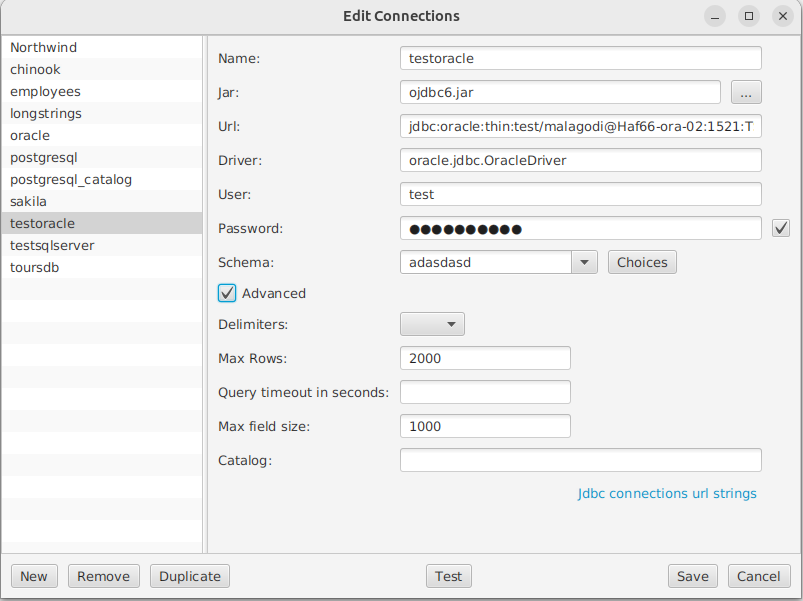
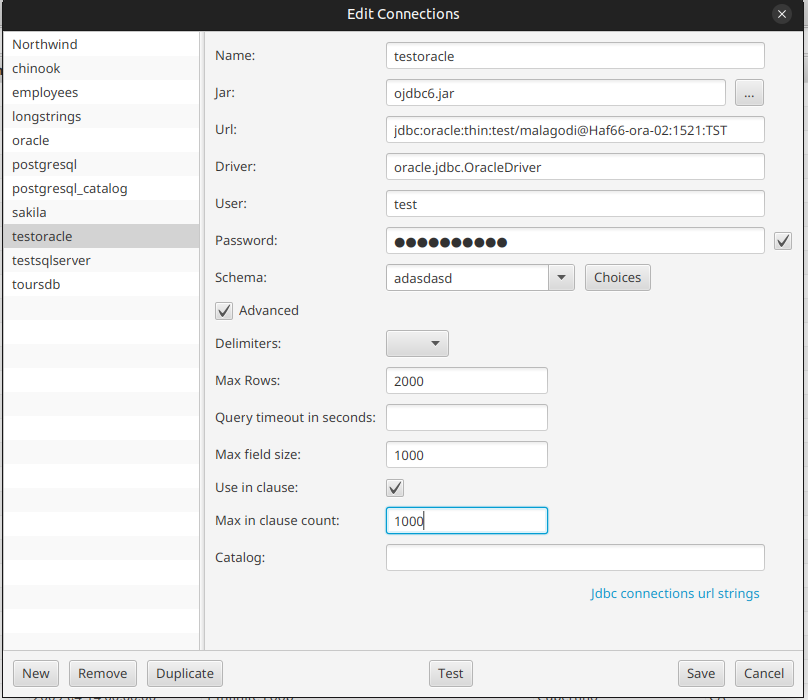
#127: updated the documentation

diff --git a/docs/Connections-editor.md b/docs/Connections-editor.md
@@ -30,6 +30,8 @@ And optionally (generally not needed):
 * **Query timeout in seconds**: for each query (a new tab) sets a maximum limit to the query duration in seconds. This timeout acts both in the query execution itself and in loading the query result. If not specified, this timeout is 10 seconds.
 * **Max rows**. The number of rows resulting from queries are limited to 500 by default: you don't want to use local memory, network and database resources to read many table rows, not to mention the queries performance. If you want to see other rows, it is generally enough to change the query parameters or the order of the resulting rows. But there are some cases in which you want to have a larger rows number limit. 
 * **Max field size**. Used to improve the performance of queries on tables with large content columns, for example large strings (kilobytes or more). Setting the max field size on a database limits the amount of data (in bytes) read for each column in the normal query, showing only the start of it when it is too long. To see the whole column content display a specific row in the [Vertical row view](Vertical-row-view), which does not limit the size of the columns' content.
+* **Use in clause**. Used to choose if IN or OR clauses are used for the foreign keys query in this database. DBtarzan uses [foreign keys](ForeignKeys) to traverse a database. Follow a foreign key means querying the destination table with the keys coming from the original table. For this purpose one can choose an IN clause (key IN (v1, v2, v3...)) or a sequence of ORs (key = v1 OR key = v2 OR key = v3...). Normally the IN clause is more effective, but it can be that the database engine does not support it.
+* **Max in clause count**. Mandatory when selecting **Use in clause**. There is normally a limitation on the number of values in the IN clause. Some databases accept at most around 1000, 2000 values in each IN clause. To overcome this limitation DBTarzan can express the query as several IN clauses connected with ORs (key IN (...) OR key IN (...) ...). But it needs to know what is the maximum number of values in the IN clause for this database.
 * **Catalog**. similar concept to the schema, used to identify a specific database, added to solve issue [#78](https://github.com/aferrandi/dbtarzan/issues/78).
 
 
